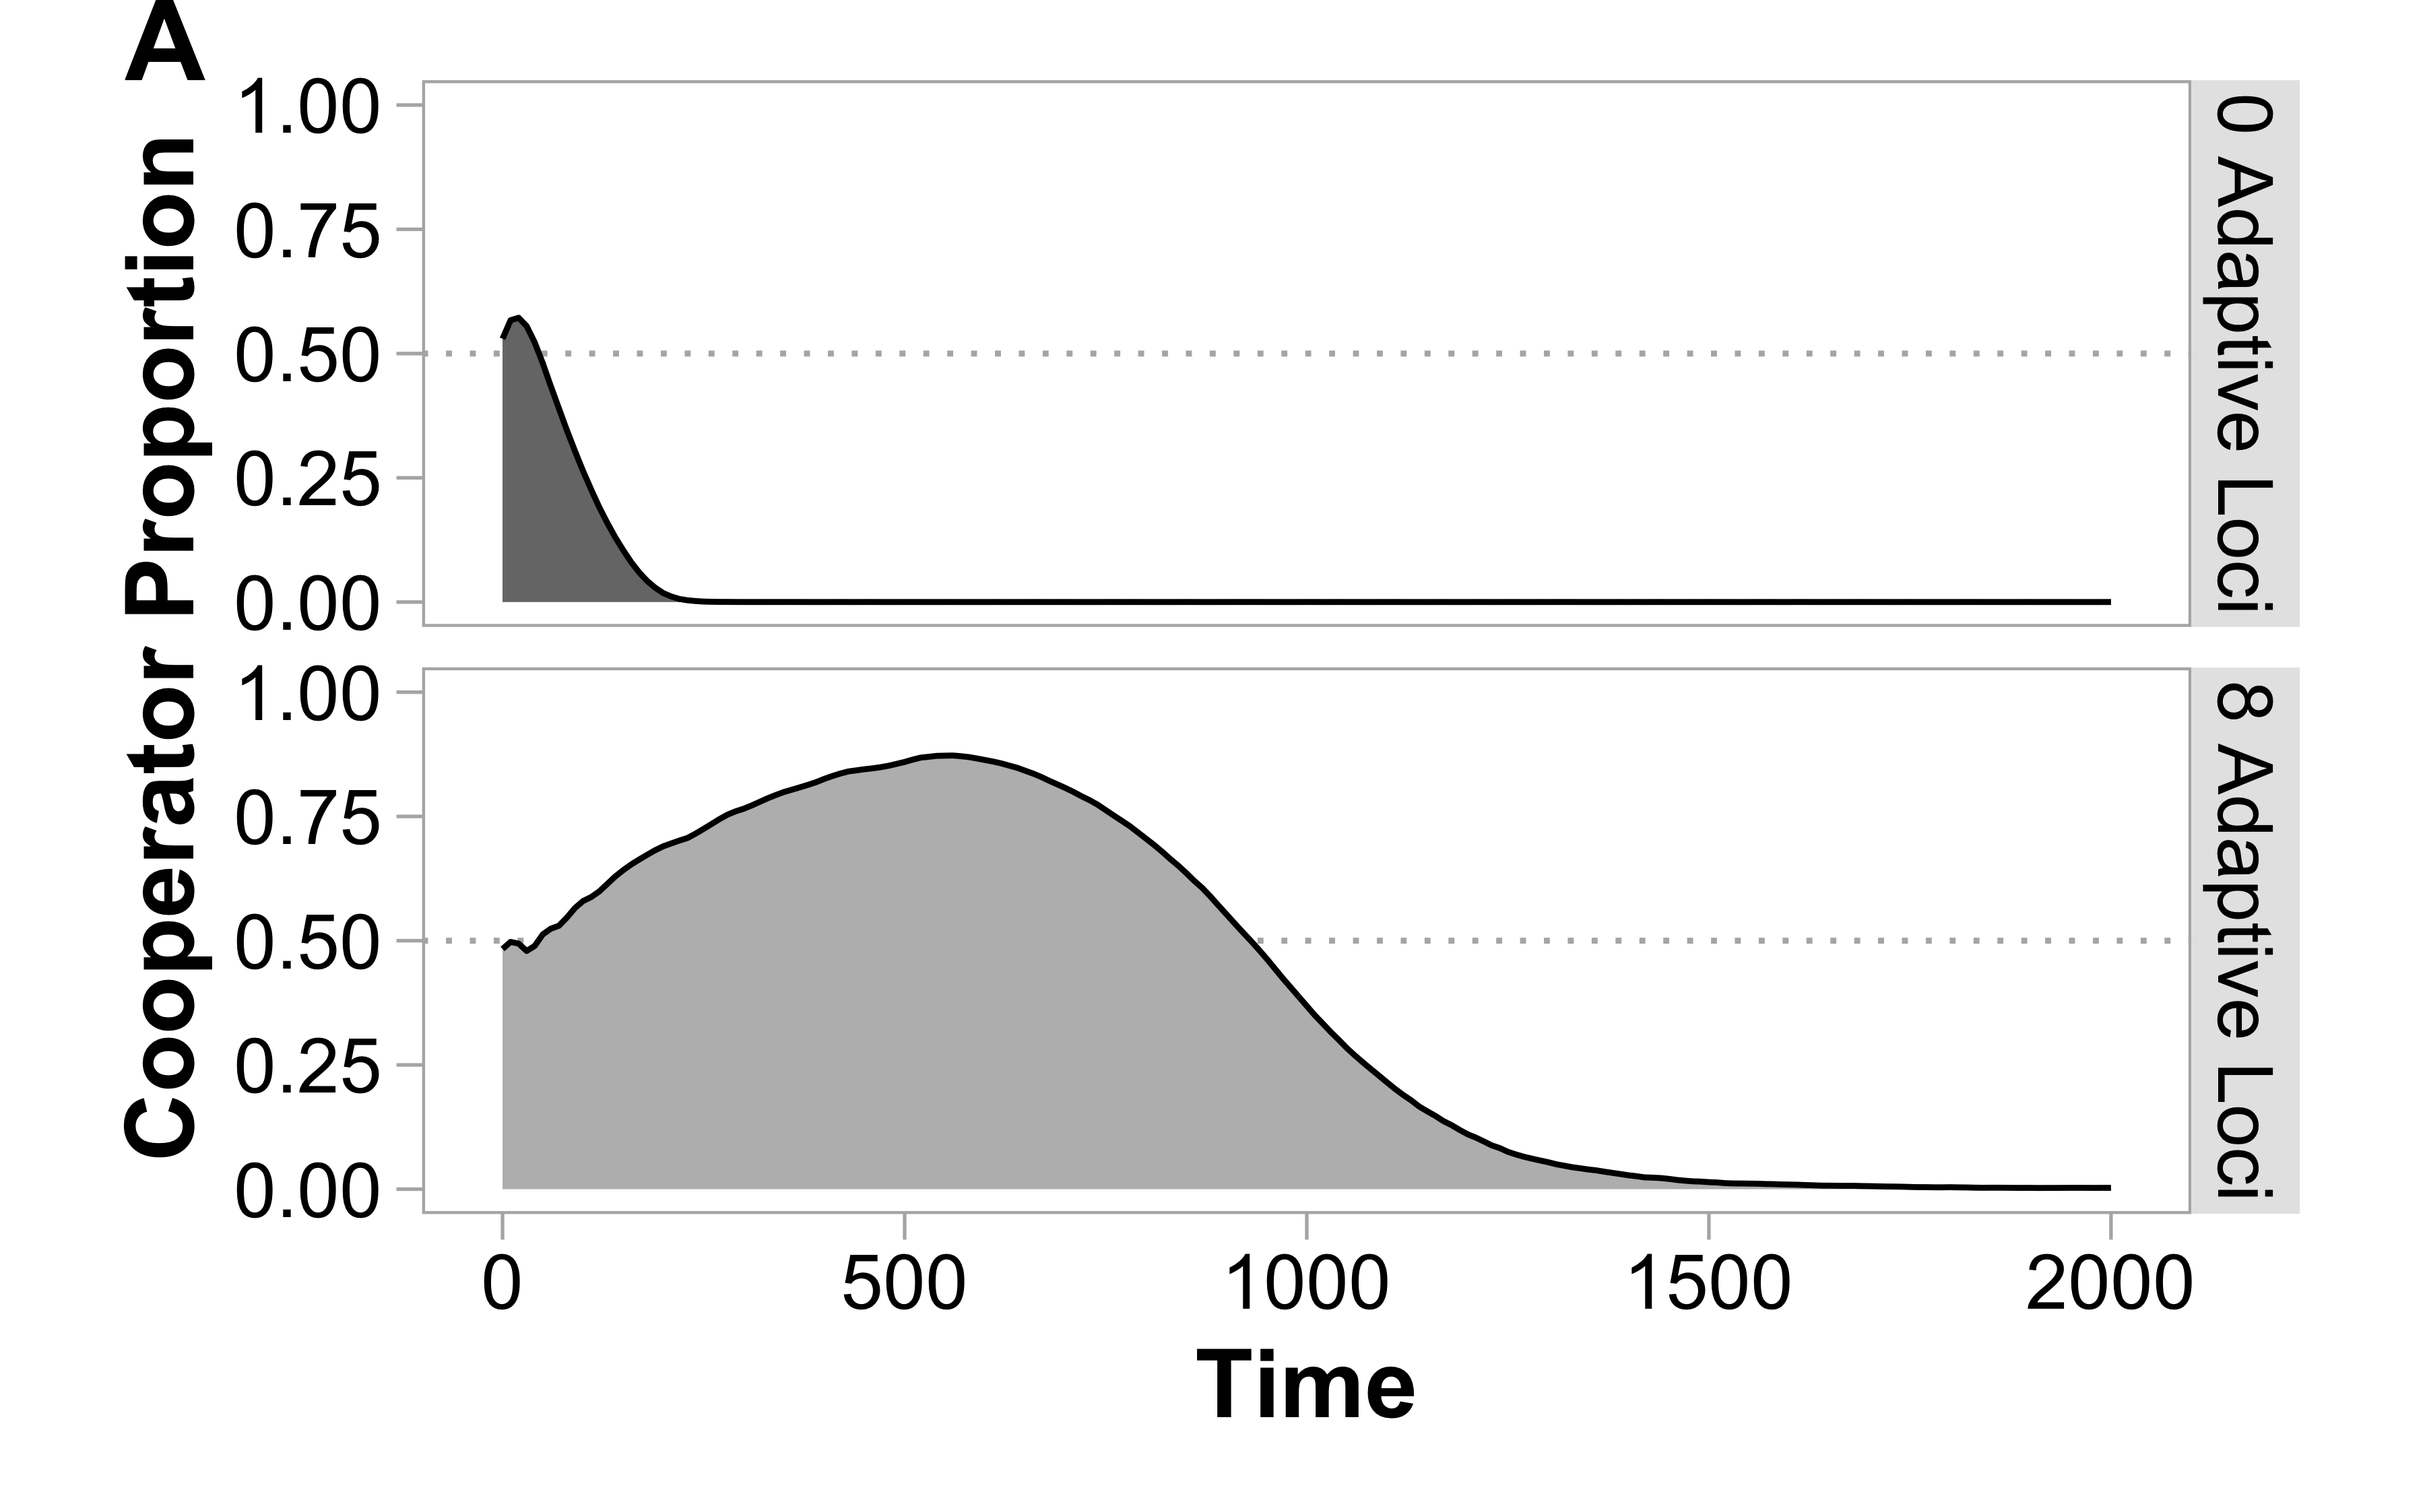
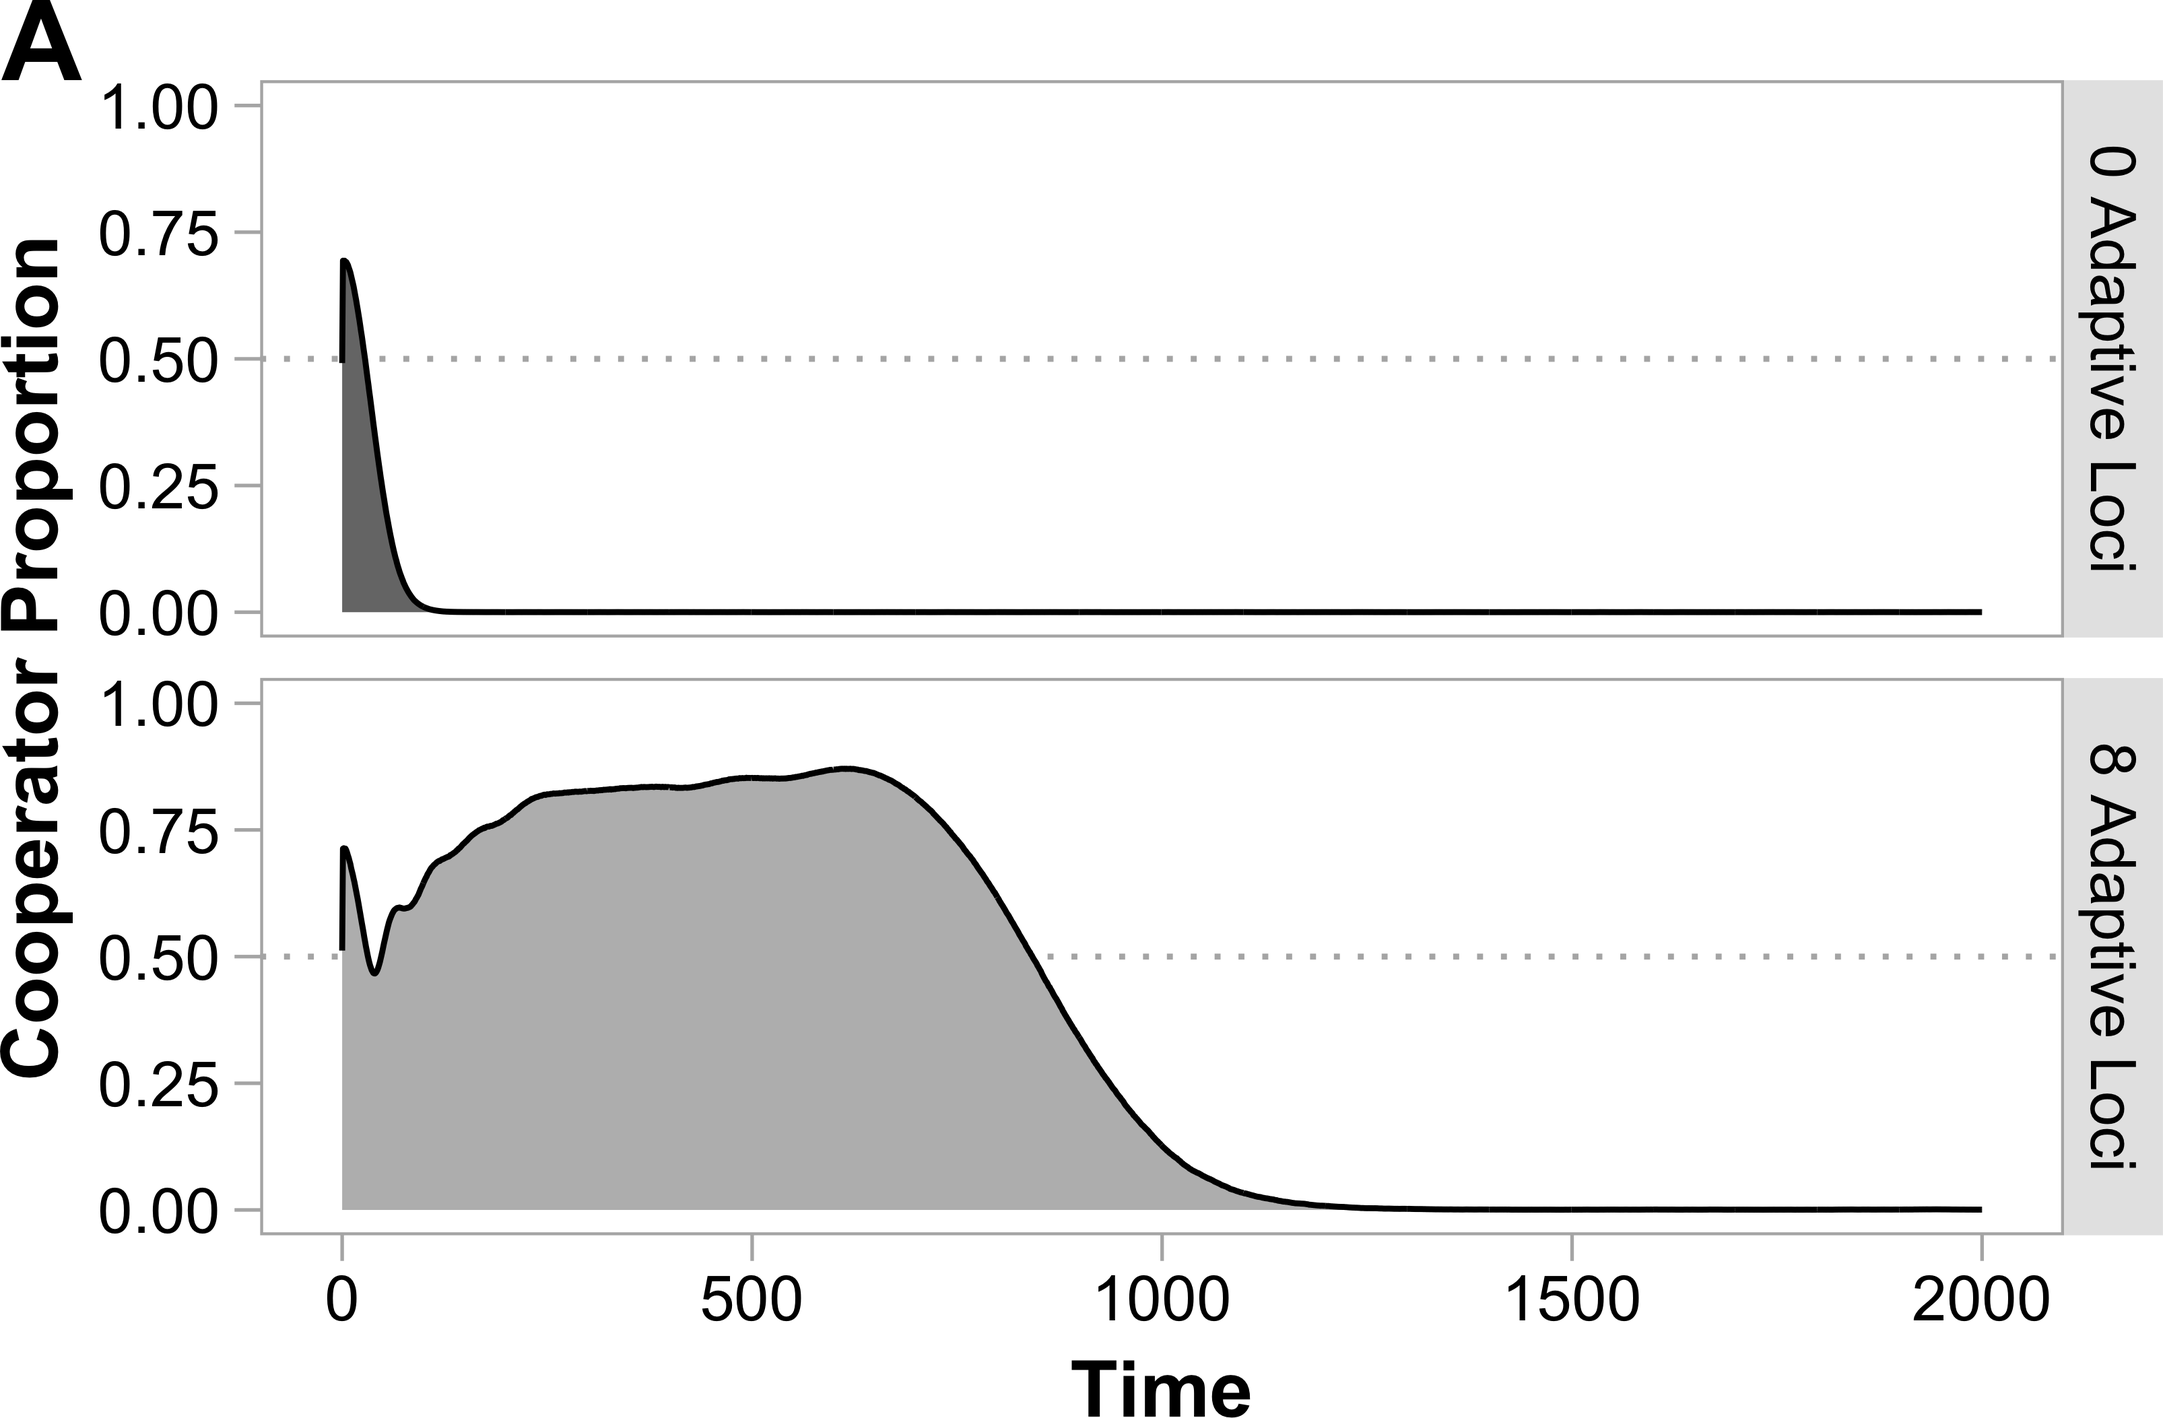
Misc updates
- Updated scripts to use new data sets
- Updated figures using new data sets
- Updated default stress survival rate (from 1e-5 to 1e-4). This reduces
  the number of replicate metapopulations that go extinct.
- Updated version number to 1.1.2

Changed region(s): [[0.0, 0.0, 1.0, 1.0]]

diff --git a/model/setup.py b/model/setup.py
@@ -31,9 +31,9 @@ here = path.abspath(path.dirname(__file__))
 
 setup(
     name='hankshaw',
-    version='1.1.0',
-    description='TODO',
-    long_description='TODO',
+    version='1.1.2',
+    description='Model for The Evolution of Cooperation by the Hankshaw Effect',
+    long_description='Simulation model described and used in The Evolution of Cooperation by the Hankshaw Effect. In each simulation, a metapopulation of populations grow and evolve.',
     url='https://github.com/briandconnelly/hankshaweffect',
     author='Brian D. Connelly',
     author_email='bdc@bconnelly.net',

diff --git a/model/hankshaw/__init__.py b/model/hankshaw/__init__.py
@@ -1,6 +1,6 @@
 # -*- coding: utf-8 -*-
 
-VERSION = (1, 1, 0)
+VERSION = (1, 1, 2)
 __version__ = ".".join(map(str, VERSION[0:3])) + "".join(VERSION[3:])
 __license__ = "BSD"
 
